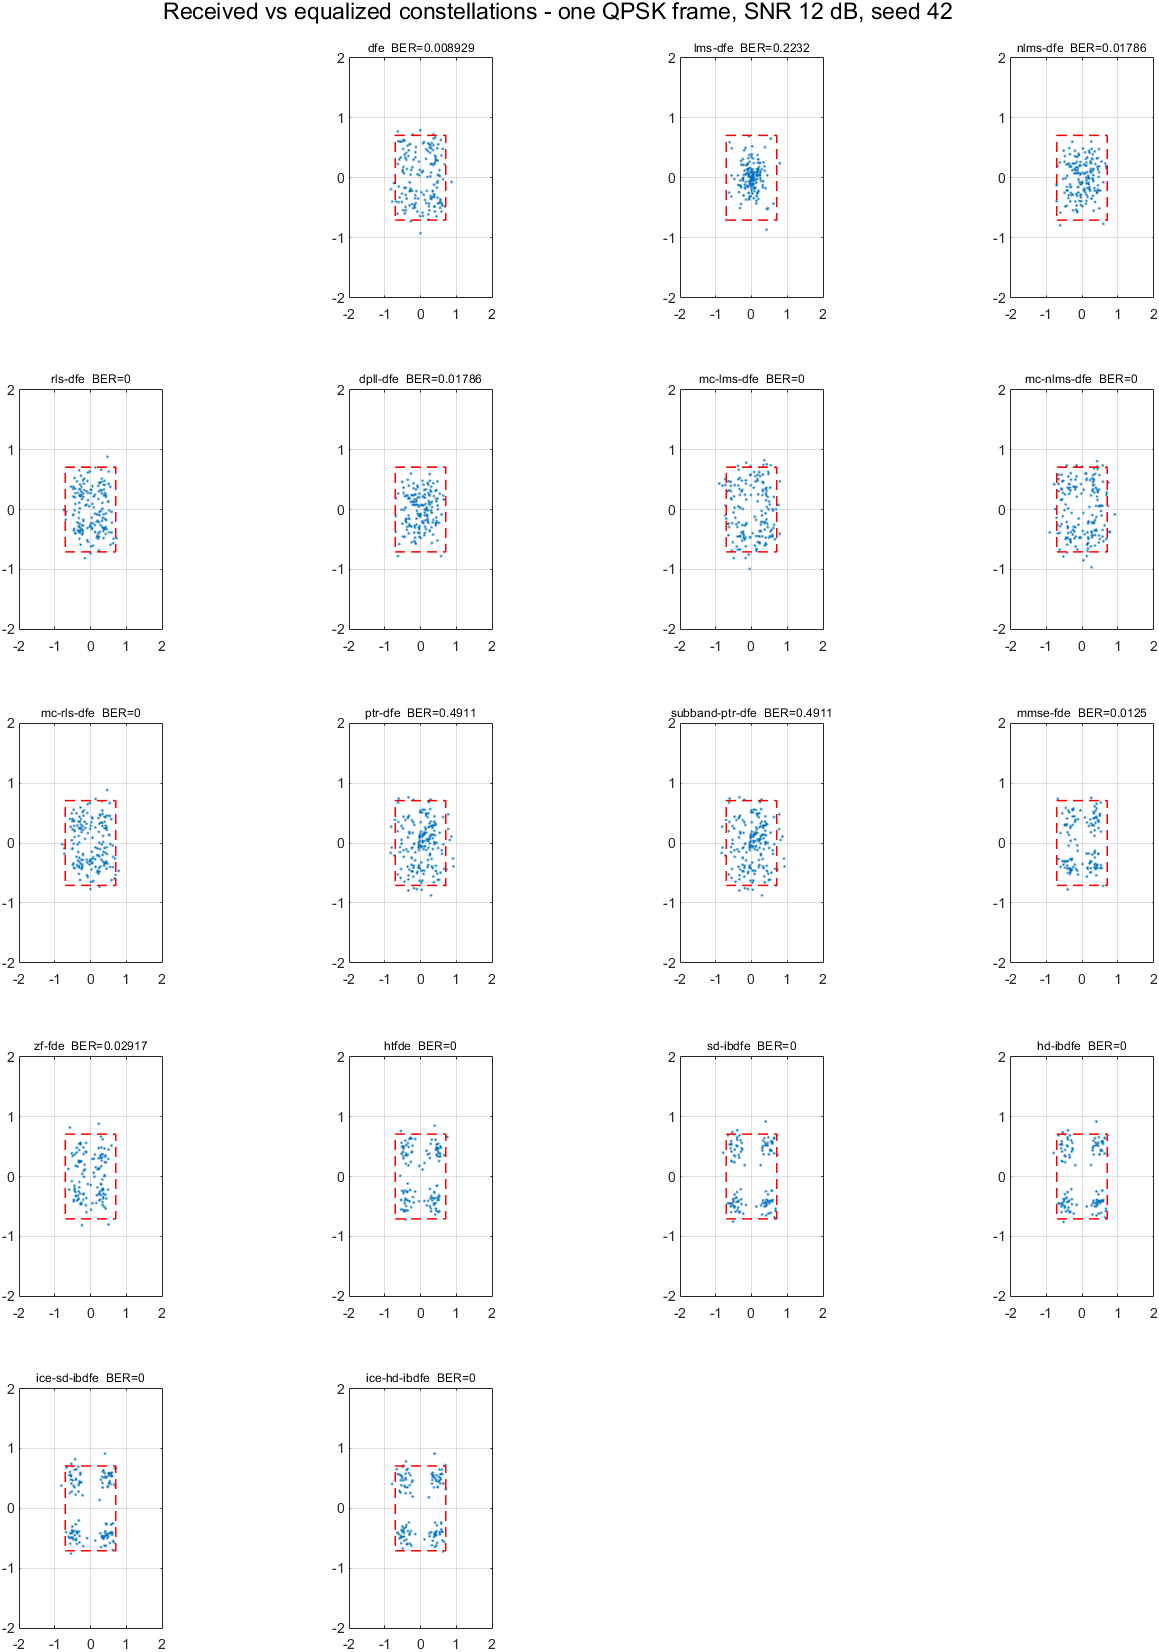
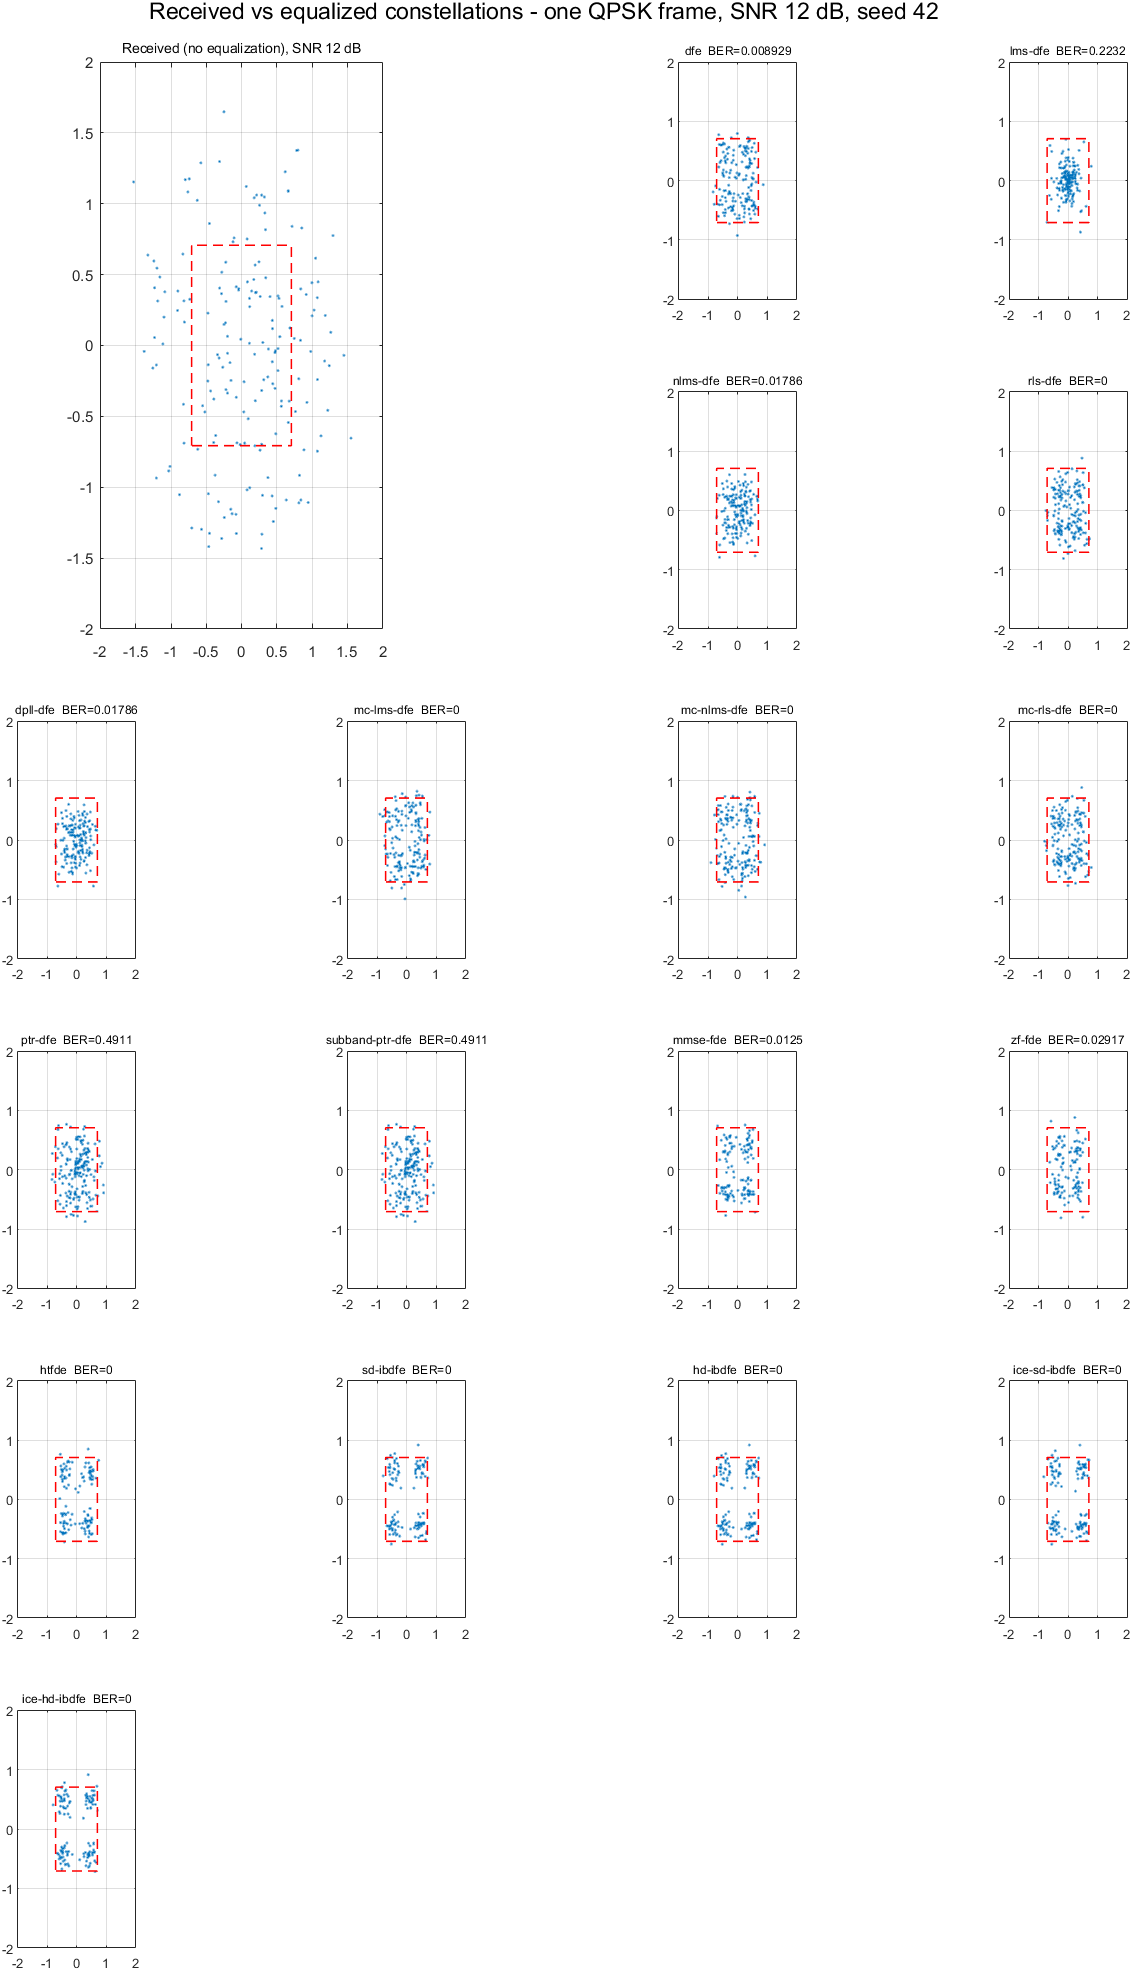
style: 2x2 square received-constellation block in the comparison grid
- The raw received constellation now occupies a 2x2 SQUARE block
  (cells 1,2,5,6) at the top left of the 6x4 grid, so its axes are
  square like the equalized cells (the previous 2x1 wide cell was
  compressed by axis equal); the 17 equalized soft constellations fill
  the remaining cells.
- Verified: received block axes 0.36x0.25 (near square), single cells
  0.16x0.10; the received block data matches the scenario input
  sample-by-sample (bits, received, rng state all identical).

Regression: 61/61 unit tests.

diff --git a/papers/engineering_simulation/plot_equalizer_outputs.m b/papers/engineering_simulation/plot_equalizer_outputs.m
@@ -58,21 +58,27 @@ received = received + sqrt(noiseVariance / 2) * ...
     (randn(size(received)) + 1j * randn(size(received)));
 
 nMethods = numel(result.ids);
-% Compact grid: the raw received constellation takes the top-left cell
-% (merged over 2x2 cells), the 17 equalized constellations fill the
-% remaining cells - one screen, roughly square constellation axes.
+% Compact grid: the raw received constellation takes a 2x2 SQUARE
+% block at the top left (cells 1,2,5,6), the 17 equalized
+% constellations fill the remaining cells - one screen, square
+% constellation axes everywhere.
 cols = 4;
-gridRows = ceil((nMethods + 1) / cols);
+gridRows = ceil((nMethods + 4) / cols);
 fig = figure("Color", "w", "Position", [40, 40, 1400, 340 * gridRows], "Visible", "off");
-% Top-left: the RAW received constellation (before any equalization) -
-% the same input for every equalizer.
-subplot(gridRows, cols, [1, 2]);
+% Top-left 2x2: the RAW received constellation (before any
+% equalization) - the same input for every equalizer.
+subplot(gridRows, cols, [1, 2, 5, 6]);
 plot(real(received), imag(received), ".", "MarkerSize", 4); hold on;
 plot([-1 1 1 -1 -1] / sqrt(2), [-1 -1 1 1 -1] / sqrt(2), "r--", "LineWidth", 1);
 grid on; axis equal; axis([-2 2 -2 2]);
 title(sprintf("Received (no equalization), SNR %g dB", snrDb), "FontSize", 9);
-% Remaining cells: one equalized soft-output constellation per method.
+% Remaining cells: one equalized soft-output constellation per method
+% (skipping the 2x2 received block at cells 1,2,5,6).
+cellIndex = 3;
 for k = 1:nMethods
+    if cellIndex == 5
+        cellIndex = 7;
+    end
     if isfield(result, "estimates") && numel(result.estimates) >= k && ...
             ~isempty(result.estimates{k})
         out = result.estimates{k}(:).';
@@ -86,7 +92,8 @@ for k = 1:nMethods
     if peak > 0
         out = out / peak;
     end
-    subplot(gridRows, cols, k + 1);
+    subplot(gridRows, cols, cellIndex);
+    cellIndex = cellIndex + 1;
     plot(real(out(abs(out) > 1e-3)), imag(out(abs(out) > 1e-3)), ...
         ".", "MarkerSize", 4); hold on;
     plot([-1 1 1 -1 -1] / sqrt(2), [-1 -1 1 1 -1] / sqrt(2), "r--", "LineWidth", 1);
